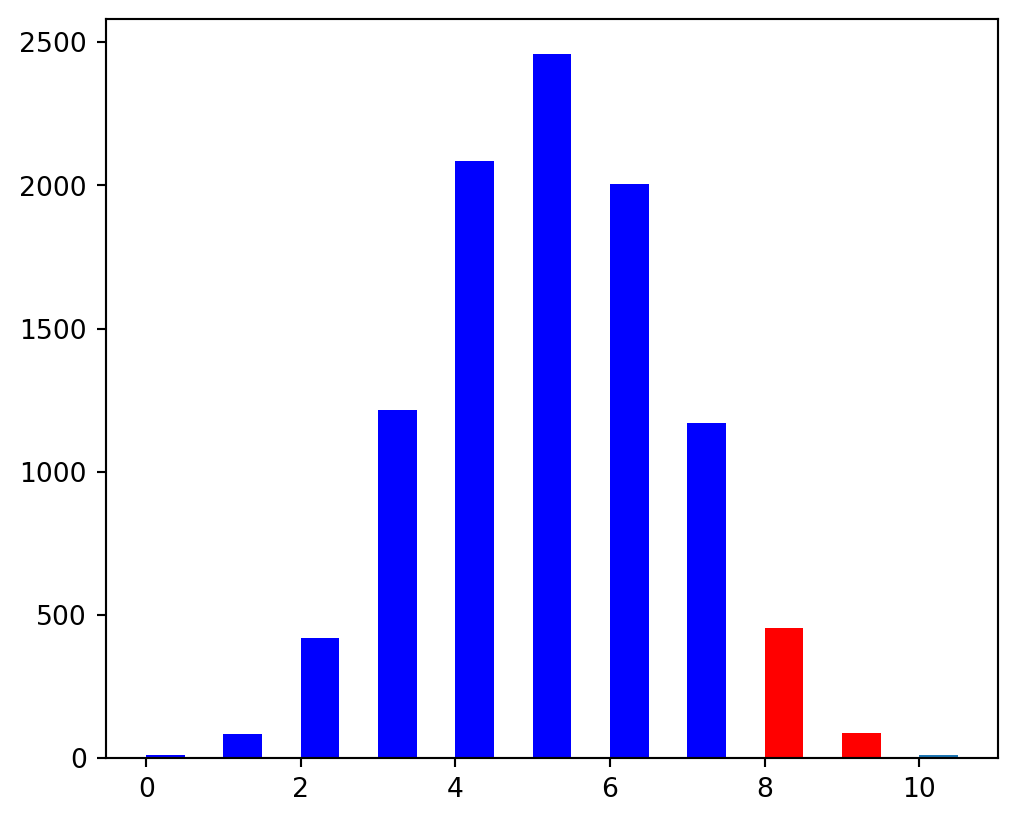
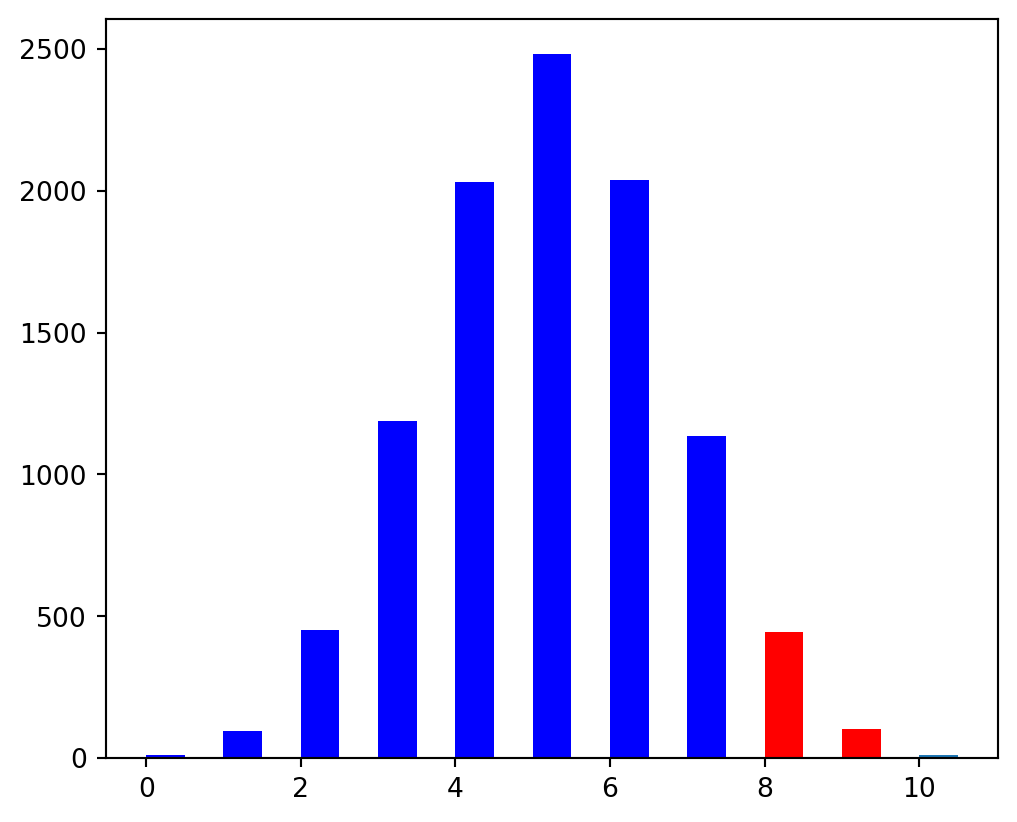
Updates comment in infA

diff --git a/c07_inferenceA/c07_inferenceA.html b/c07_inferenceA/c07_inferenceA.html
@@ -831,7 +831,7 @@ Means difference:  8.98</code></pre>
 <span id="cb10-2"><a href="#cb10-2" aria-hidden="true" tabindex="-1"></a>impr_red_null <span class="op">=</span> np.random.choice(population, <span class="dv">30</span>, replace<span class="op">=</span><span class="va">False</span>)</span>
 <span id="cb10-3"><a href="#cb10-3" aria-hidden="true" tabindex="-1"></a><span class="bu">print</span>(<span class="ss">f'Means difference: </span><span class="sc">{</span>impr_red_null<span class="sc">.</span>mean() <span class="op">-</span> real_red_null<span class="sc">.</span>mean()<span class="sc">: .2f}</span><span class="ss">'</span>)</span></code><button title="Copy to Clipboard" class="code-copy-button"><i class="bi"></i></button></pre></div>
 <div class="cell-output cell-output-stdout">
-<pre><code>Means difference:  7.64</code></pre>
+<pre><code>Means difference:  0.29</code></pre>
 </div>
 </div>
 <div class="fragment">
@@ -847,8 +847,8 @@ Means difference:  8.98</code></pre>
 <span id="cb12-6"><a href="#cb12-6" aria-hidden="true" tabindex="-1"></a>impr_red_null <span class="op">=</span> np.random.choice(population, <span class="dv">30</span>, replace<span class="op">=</span><span class="va">False</span>)</span>
 <span id="cb12-7"><a href="#cb12-7" aria-hidden="true" tabindex="-1"></a><span class="bu">print</span>(<span class="ss">f'Means difference: </span><span class="sc">{</span>impr_red_null<span class="sc">.</span>mean() <span class="op">-</span> real_red_null<span class="sc">.</span>mean()<span class="sc">: .2f}</span><span class="ss">'</span>)</span></code><button title="Copy to Clipboard" class="code-copy-button"><i class="bi"></i></button></pre></div>
 <div class="cell-output cell-output-stdout">
-<pre><code>Means difference: -16.27
-Means difference:  4.52</code></pre>
+<pre><code>Means difference:  0.62
+Means difference:  22.74</code></pre>
 </div>
 </div>
 </div>
@@ -889,8 +889,8 @@ Means difference:  4.52</code></pre>
 <span id="cb14-8"><a href="#cb14-8"></a><span class="bu">print</span>(<span class="ss">f'Max null mean diff: </span><span class="sc">{</span><span class="bu">max</span>(null_mean_diffs)<span class="sc">: .2f}</span><span class="ss">'</span>)</span>
 <span id="cb14-9"><a href="#cb14-9"></a><span class="bu">print</span>(<span class="ss">f'Min null mean diff: </span><span class="sc">{</span><span class="bu">min</span>(null_mean_diffs)<span class="sc">: .2f}</span><span class="ss">'</span>)</span></code><button title="Copy to Clipboard" class="code-copy-button"><i class="bi"></i></button></pre></div>
 <div class="cell-output cell-output-stdout">
-<pre><code>Max null mean diff:  39.27
-Min null mean diff: -37.85</code></pre>
+<pre><code>Max null mean diff:  34.39
+Min null mean diff: -34.65</code></pre>
 </div>
 </div>
 </div>
@@ -935,7 +935,7 @@ Min null mean diff: -37.85</code></pre>
 <span id="cb16-9"><a href="#cb16-9" aria-hidden="true" tabindex="-1"></a>plt.show()</span></code><button title="Copy to Clipboard" class="code-copy-button"><i class="bi"></i></button></pre></div>
 </details>
 <div class="cell-output cell-output-display">
-<p><img data-src="c07_inferenceA_files/figure-revealjs/cell-11-output-1.png" width="509" height="411"></p>
+<p><img data-src="c07_inferenceA_files/figure-revealjs/cell-11-output-1.png" width="509" height="415"></p>
 </div>
 </div>
 <p>It seems like our original value of 15 points difference is not that extreme. There’s a measure for that:</p>
@@ -1116,17 +1116,17 @@ Min null mean diff: -37.85</code></pre>
 <div class="cell" data-execution_count="15">
 <div class="sourceCode cell-code" id="cb23"><pre class="sourceCode python code-with-copy"><code class="sourceCode python"><span id="cb23-1"><a href="#cb23-1" aria-hidden="true" tabindex="-1"></a>pd.value_counts(null_res, normalize<span class="op">=</span><span class="va">True</span>).sort_index()</span></code><button title="Copy to Clipboard" class="code-copy-button"><i class="bi"></i></button></pre></div>
 <div class="cell-output cell-output-display" data-execution_count="15">
-<pre><code>0     0.0011
-1     0.0083
-2     0.0421
-3     0.1214
-4     0.2086
-5     0.2458
-6     0.2003
-7     0.1170
-8     0.0456
-9     0.0087
-10    0.0011
+<pre><code>0     0.0012
+1     0.0096
+2     0.0453
+3     0.1190
+4     0.2032
+5     0.2482
+6     0.2038
+7     0.1135
+8     0.0446
+9     0.0104
+10    0.0012
 dtype: float64</code></pre>
 </div>
 </div>
@@ -1173,8 +1173,8 @@ dtype: float64</code></pre>
 <span id="cb26-4"><a href="#cb26-4" aria-hidden="true" tabindex="-1"></a>two_sided_p_value <span class="op">=</span> np.mean(null_res <span class="op">&gt;=</span> <span class="dv">8</span>) <span class="op">+</span> np.mean(null_res<span class="op">&lt;=</span><span class="dv">2</span>)</span>
 <span id="cb26-5"><a href="#cb26-5" aria-hidden="true" tabindex="-1"></a><span class="bu">print</span>(<span class="ss">f'P(heads&gt;=8 or heads&lt;=2 | H0) = </span><span class="sc">{</span>two_sided_p_value<span class="sc">: .3f}</span><span class="ss">'</span>)</span></code><button title="Copy to Clipboard" class="code-copy-button"><i class="bi"></i></button></pre></div>
 <div class="cell-output cell-output-stdout">
-<pre><code>P(heads &gt;= 8 | H0) =  0.055
-P(heads&gt;=8 or heads&lt;=2 | H0) =  0.107</code></pre>
+<pre><code>P(heads &gt;= 8 | H0) =  0.056
+P(heads&gt;=8 or heads&lt;=2 | H0) =  0.112</code></pre>
 </div>
 </div>
 </div>
@@ -1352,7 +1352,7 @@ P(heads&gt;=8 or heads&lt;=2 | H0) =  0.107</code></pre>
 </ol>
 <div class="fragment">
 <ol start="2" type="1">
-<li>Looking at some statistic of the sample <span class="math inline">\(T(X)\)</span>, by fixing <span class="math inline">\(\alpha\)</span> at some “significance level”, extract a critical value <span class="math inline">\(C\)</span> and compare to it:
+<li>Rejection area: looking at some statistic of the sample <span class="math inline">\(T(X)\)</span>, by fixing <span class="math inline">\(\alpha\)</span> at some “significance level”, extract a critical value <span class="math inline">\(C\)</span> and compare to it:
 <ul>
 <li>If <span class="math inline">\(T(X) \ge C \Rightarrow\)</span> reject <span class="math inline">\(H_0\)</span></li>
 <li>If <span class="math inline">\(T(X) &lt; C \Rightarrow\)</span> don’t reject <span class="math inline">\(H_0\)</span></li>
@@ -1364,7 +1364,7 @@ P(heads&gt;=8 or heads&lt;=2 | H0) =  0.107</code></pre>
 <div style="direction:rtl; font-size:16px">
 <p>האם אנחנו תמיד שולטים על הטעויות מסדר ראשון ושני? לא בהכרח.</p>
 <p>יש שתי גישות מקובלות לבדיקת השערות. התחלנו בראשונה, שבה ערכנו ניסוי כמו דגימה של ציורים, חישבנו את ערך הpvalue, הסיכוי לקבל תוצאה חריגה כמו שהתקבלה במדגם או יותר תחת השערת האפס. ואז השווינו את הערך הזה לאיזשהו סף שכעת נקרא לו אלפא, או רמת המובהקות. אם הpvalue קטן מאלפא נדחה את H0, ואם לא, לא נדחה.</p>
-<p>דרך אחרת לבדוק השערות היא קודם כל לקבע את ערך האלפא, הסיכוי לטעות מסוג ראשון שמעניין אותנו. ואם אנחנו יודעים מראש איך מתפלג איזשהו סטטיסטי של המדגם שלנו, T(X), לדוגמא ממוצע המדגם: נוכל לחלץ ממנו מהו הערך הקריטי המקסימלי שהוא יכול להיות כדי לשמור על אלפא, איזשהו ערך C. רק כעת נבצע את הניסוי, נחשב את הסטטיסטי שלנו, ונקבל מבחן כזה: אם הסטטיסטי שלנו, לדוגמא ממוצע המדגם גדול מC, אז הוא מרשים מספיק וזו דחייה של השערת האפס. ואם לא אז לא נדחה את השערת האפס. כל זה נכון כמובן להשערה חד-צדדית, בהשערה דו-צדדית נסתכל על הסטטיסטי בערך מוחלט.</p>
+<p>דרך אחרת לבדוק השערות היא למצוא קודם איזור דחיה. נקבע את ערך האלפא, הסיכוי לטעות מסוג ראשון שמעניין אותנו. ואם אנחנו יודעים מראש איך מתפלג איזשהו סטטיסטי של המדגם שלנו, T(X), לדוגמא ממוצע המדגם: נוכל לחלץ ממנו מהו הערך הקריטי המקסימלי שהוא יכול להיות כדי לשמור על אלפא, איזשהו ערך C. רק כעת נבצע את הניסוי, נחשב את הסטטיסטי שלנו, ונקבל מבחן כזה: אם הסטטיסטי שלנו, לדוגמא ממוצע המדגם גדול מC, אז הוא מרשים מספיק וזו דחייה של השערת האפס. ואם לא אז לא נדחה את השערת האפס. כל זה נכון כמובן להשערה חד-צדדית, בהשערה דו-צדדית נסתכל על הסטטיסטי בערך מוחלט.</p>
 </div>
 <style type="text/css">
         span.MJX_Assistive_MathML {
@@ -1443,7 +1443,7 @@ P(heads&gt;=8 or heads&lt;=2 | H0) =  0.107</code></pre>
 </div>
 <div class="cell fragment" data-execution_count="18">
 <div class="cell-output cell-output-stdout">
-<pre><code>C (above which 1% of null distribution) =  23.47</code></pre>
+<pre><code>C (above which 1% of null distribution) =  23.57</code></pre>
 </div>
 </div>
 </div>
